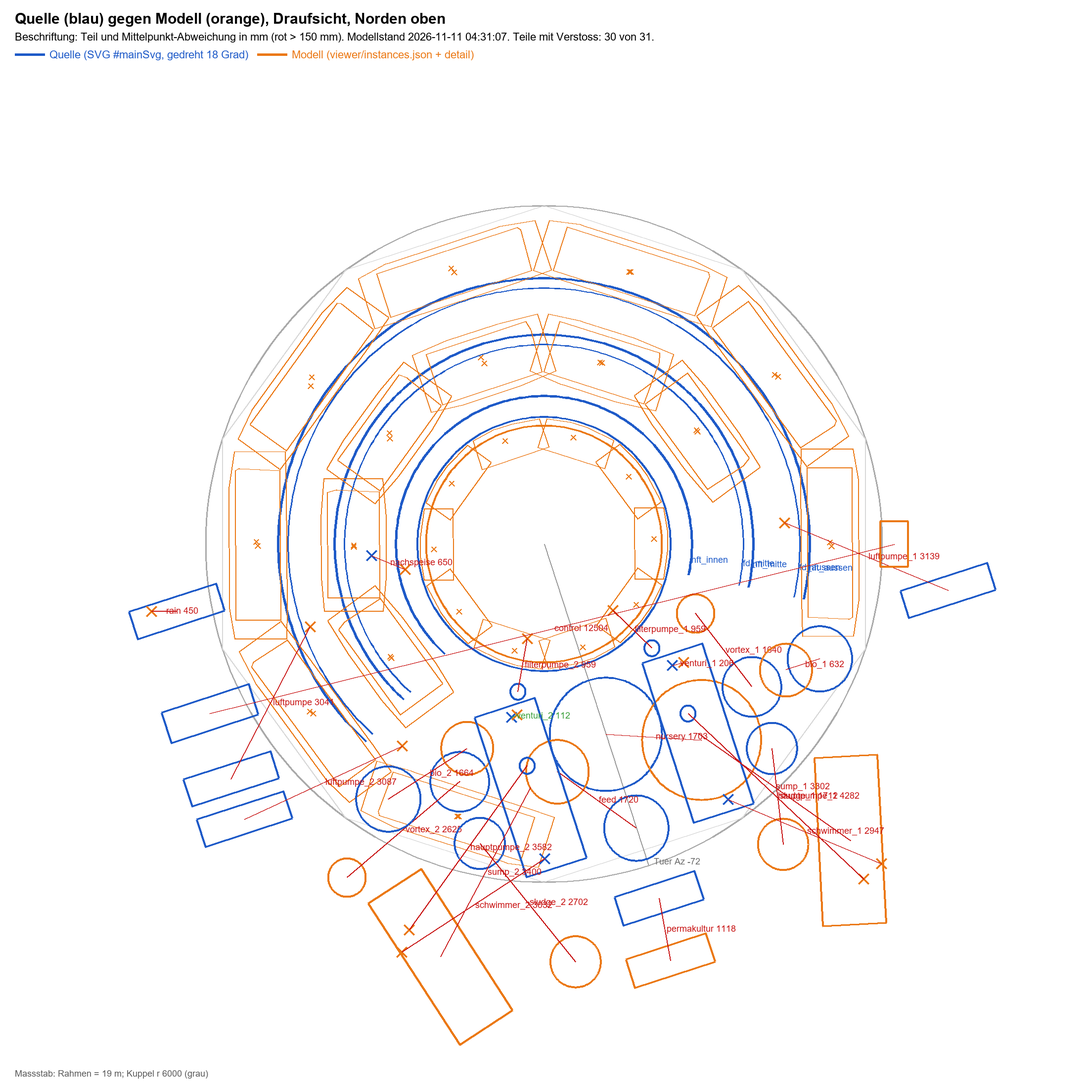
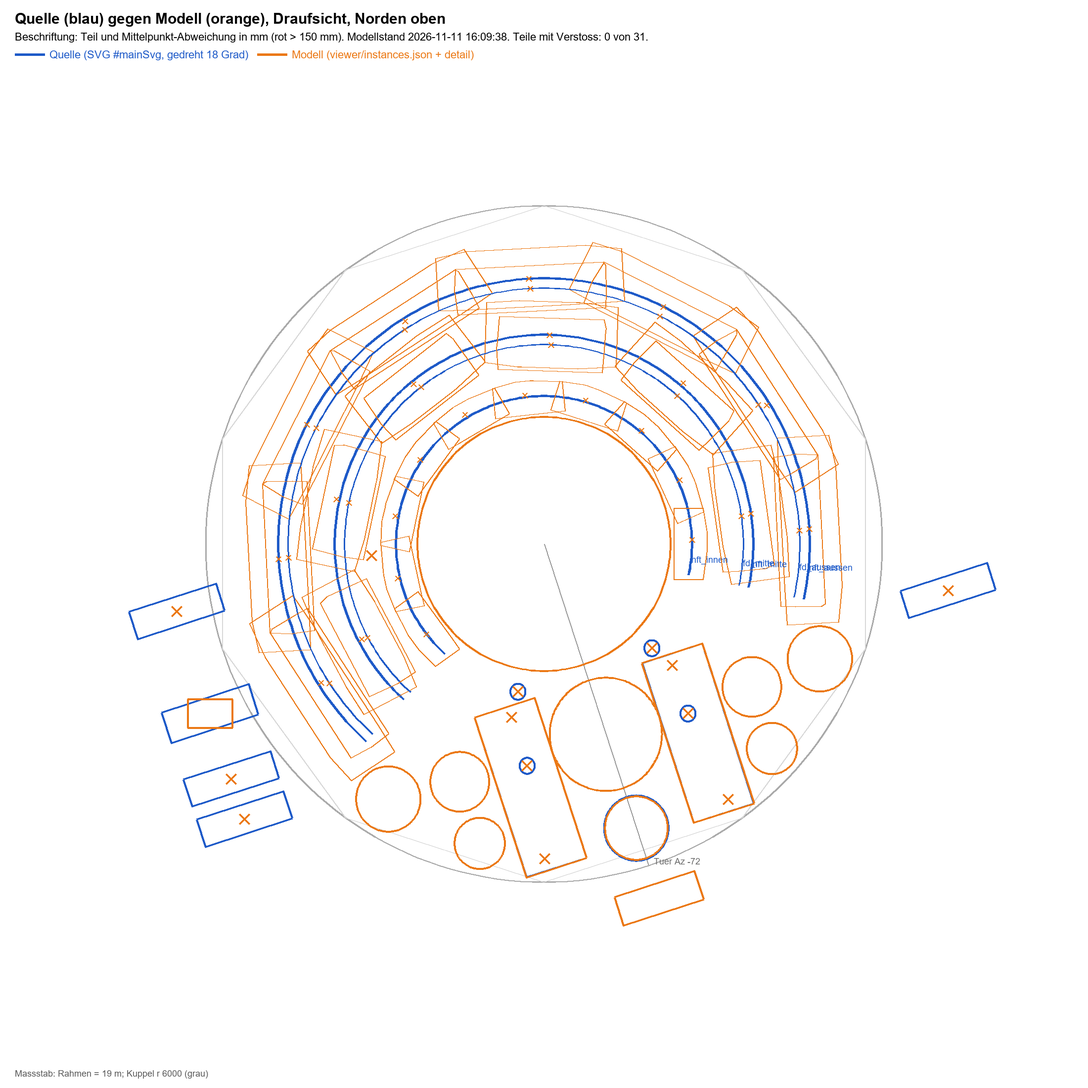
N-UNIFY-AUTOBAHN L2: Lage-Gate Exit 0 (0 von 31 Teilen, Ringe 5/5), Viewer- und Detail-Export, Draufsicht-Bilder, Gangkarte neu, Bedenken B23-B28 gemessen, L2 Stand im Paket

diff --git a/docs/walkway-map.md b/docs/walkway-map.md
@@ -4,128 +4,159 @@ Erzeugt von `scripts/check_walkways_voll.py` aus `scripts/dome-script.json` (Ras
 
 ## Scheibe knie (0.3 m ueber Boden)
 
-### rot: 45 Engstellen
+### rot: 42 Engstellen
 
-- Weite ca. 100 mm bei -180 Grad / 5675 mm (Laenge ca. 6450 mm): Beet_aussen_800:2 x Wand
-- Weite ca. 100 mm bei -170 Grad / 2256 mm (Laenge ca. 500 mm): Tisch_innen:2 Fuss x Zentralpool
-- Weite ca. 100 mm bei -161 Grad / 2878 mm (Laenge ca. 350 mm): Beet_innen_933:2 x Beet_innen_933:3
-- Weite ca. 100 mm bei -161 Grad / 4159 mm (Laenge ca. 5600 mm): Beet_aussen_800:2 x Beet_aussen_800:3 | Beet_aussen_800:2 x Notluftpumpe:1
-- Weite ca. 100 mm bei -144 Grad / 5696 mm (Laenge ca. 5350 mm): Beet_aussen_800:3 x Wand
-- Weite ca. 100 mm bei -141 Grad / 2276 mm (Laenge ca. 1650 mm): Tisch_innen:3 Fuss x Tisch_innen:3 Fuss | Tisch_innen:3 Fuss x Zentralpool
-- Weite ca. 100 mm bei -119 Grad / 4487 mm (Laenge ca. 5750 mm): Beet_aussen_800:3 x Beet_aussen_800:4 | Beet_aussen_800:3 x Geblaese_Luft:2
-- Weite ca. 100 mm bei -108 Grad / 5660 mm (Laenge ca. 4250 mm): Beet_aussen_800:4 x Wand
-- Weite ca. 100 mm bei -106 Grad / 2263 mm (Laenge ca. 1800 mm): Tisch_innen:4 Fuss x Tisch_innen:4 Fuss | Tisch_innen:4 Fuss x Zentralpool
-- Weite ca. 100 mm bei -53 Grad / 3285 mm (Laenge ca. 2650 mm): Puffer_Klein:1 x Ringstuetze_d75_B:2 | Puffer_Klein:1 x Zweitbecken
-- Weite ca. 100 mm bei -47 Grad / 2229 mm (Laenge ca. 7400 mm): Podest_Vortex:1 x Puffer_Klein:1 | Podest_Vortex:1 x Tisch_innen:6 Fuss
-- Weite ca. 100 mm bei -1 Grad / 5625 mm (Laenge ca. 6450 mm): Beet_aussen_800:5 x Wand
-- Weite ca. 100 mm bei 1 Grad / 2175 mm (Laenge ca. 1550 mm): Tisch_innen:7 Fuss x Tisch_innen:7 Fuss | Tisch_innen:7 Fuss x Zentralpool
-- Weite ca. 100 mm bei 5 Grad / 4391 mm (Laenge ca. 1800 mm): Beet_aussen_800:5 x Geblaese_Luft:1
-- Weite ca. 100 mm bei 35 Grad / 5597 mm (Laenge ca. 5300 mm): Beet_aussen_800:6 x Wand
-- Weite ca. 100 mm bei 38 Grad / 2175 mm (Laenge ca. 1450 mm): Tisch_innen:8 Fuss x Tisch_innen:8 Fuss | Tisch_innen:8 Fuss x Zentralpool
-- Weite ca. 100 mm bei 54 Grad / 2796 mm (Laenge ca. 450 mm): Beet_innen_933:4 x Beet_innen_933:5
-- Weite ca. 100 mm bei 54 Grad / 3435 mm (Laenge ca. 1550 mm): Beet_innen_933:4 x Beet_innen_933:5
-- Weite ca. 100 mm bei 73 Grad / 5582 mm (Laenge ca. 4300 mm): Beet_aussen_800:7 x Wand
-- Weite ca. 100 mm bei 75 Grad / 2153 mm (Laenge ca. 1800 mm): Tisch_innen:9 Fuss x Tisch_innen:9 Fuss | Tisch_innen:9 Fuss x Zentralpool
-- Weite ca. 100 mm bei 90 Grad / 3425 mm (Laenge ca. 1350 mm): Beet_innen_933:5 x Beet_innen_933:6
-- Weite ca. 100 mm bei 91 Grad / 2775 mm (Laenge ca. 550 mm): Beet_innen_933:5 x Beet_innen_933:6
-- Weite ca. 100 mm bei 109 Grad / 2198 mm (Laenge ca. 1600 mm): Tisch_innen:10 Fuss x Tisch_innen:10 Fuss | Tisch_innen:10 Fuss x Zentralpool
-- Weite ca. 100 mm bei 110 Grad / 5598 mm (Laenge ca. 5150 mm): Beet_aussen_800:8 x Wand
-- Weite ca. 100 mm bei 127 Grad / 3495 mm (Laenge ca. 1150 mm): Beet_innen_933:1 x Beet_innen_933:6
-- Weite ca. 100 mm bei 128 Grad / 2815 mm (Laenge ca. 350 mm): Beet_innen_933:1 x Beet_innen_933:6
-- Weite ca. 100 mm bei 145 Grad / 5638 mm (Laenge ca. 6950 mm): Beet_aussen_800:1 x Wand
-- Weite ca. 100 mm bei 146 Grad / 2198 mm (Laenge ca. 1500 mm): Tisch_innen:1 Fuss x Tisch_innen:1 Fuss | Tisch_innen:1 Fuss x Zentralpool
-- Weite ca. 100 mm bei 163 Grad / 2847 mm (Laenge ca. 300 mm): Beet_innen_933:1 x Beet_innen_933:2
-- Weite ca. 100 mm bei 164 Grad / 3465 mm (Laenge ca. 950 mm): Beet_innen_933:1 x Beet_innen_933:2
+- Weite ca. 100 mm bei -176 Grad / 3935 mm (Laenge ca. 600 mm): Beet_aussen_800:7 x Beet_innen_933:5
+- Weite ca. 100 mm bei -168 Grad / 2991 mm (Laenge ca. 2700 mm): Beet_innen_933:5 x Beet_innen_933:6 | Beet_innen_933:5 x Tisch_innen:9 Fuss
+- Weite ca. 100 mm bei -167 Grad / 3973 mm (Laenge ca. 900 mm): Beet_aussen_800:7 x Beet_innen_933:6
+- Weite ca. 100 mm bei -161 Grad / 5360 mm (Laenge ca. 400 mm): Beet_aussen_800:7 x Beet_aussen_800:8
+- Weite ca. 100 mm bei -143 Grad / 2895 mm (Laenge ca. 2050 mm): Beet_innen_933:6 x Tisch_innen:10 Fuss | Tisch_innen:10 Fuss x Tisch_innen:10 Fuss
+- Weite ca. 100 mm bei -136 Grad / 3996 mm (Laenge ca. 450 mm): Beet_aussen_800:8 x Beet_innen_933:6
+- Weite ca. 100 mm bei -77 Grad / 5816 mm (Laenge ca. 1100 mm): Drittbecken x Wand
+- Weite ca. 100 mm bei -72 Grad / 4696 mm (Laenge ca. 1600 mm): Drittbecken x Zweitbecken
+- Weite ca. 100 mm bei -67 Grad / 5771 mm (Laenge ca. 1850 mm): Drittbecken x Wand
+- Weite ca. 100 mm bei -60 Grad / 2385 mm (Laenge ca. 4400 mm): Puffer_Klein:1 x Zentralpool | Puffer_Klein:1 x Zweitbecken
+- Weite ca. 100 mm bei -54 Grad / 3255 mm (Laenge ca. 450 mm): Puffer_Klein:1 x Zweitbecken
+- Weite ca. 100 mm bei -31 Grad / 5059 mm (Laenge ca. 750 mm): Podest_Vortex:1 x Tank_gross:1
+- Weite ca. 100 mm bei -30 Grad / 5591 mm (Laenge ca. 550 mm): Tank_gross:1 x Wand
+- Weite ca. 100 mm bei -25 Grad / 4486 mm (Laenge ca. 500 mm): Podest_Vortex:1 x Tank_gross:1
+- Weite ca. 100 mm bei -17 Grad / 5788 mm (Laenge ca. 1150 mm): Tank_gross:1 x Wand
+- Weite ca. 100 mm bei -16 Grad / 4749 mm (Laenge ca. 1500 mm): Beet_aussen_800:1 x Tank_gross:1
+- Weite ca. 100 mm bei -8 Grad / 3967 mm (Laenge ca. 650 mm): Beet_aussen_800:1 x Beet_innen_933:1
+- Weite ca. 100 mm bei -1 Grad / 2825 mm (Laenge ca. 1700 mm): Beet_innen_933:1 x Tisch_innen:1 Fuss | Tisch_innen:1 Fuss x Tisch_innen:1 Fuss
+- Weite ca. 100 mm bei 18 Grad / 5281 mm (Laenge ca. 400 mm): Beet_aussen_800:1 x Beet_aussen_800:2
+- Weite ca. 100 mm bei 23 Grad / 3887 mm (Laenge ca. 550 mm): Beet_aussen_800:2 x Beet_innen_933:1
+- Weite ca. 100 mm bei 25 Grad / 2942 mm (Laenge ca. 3100 mm): Beet_innen_933:1 x Beet_innen_933:2 | Beet_innen_933:1 x Tisch_innen:2 Fuss
+- Weite ca. 100 mm bei 32 Grad / 3850 mm (Laenge ca. 800 mm): Beet_aussen_800:2 x Beet_innen_933:2
+- Weite ca. 100 mm bei 48 Grad / 5276 mm (Laenge ca. 500 mm): Beet_aussen_800:2 x Beet_aussen_800:3
+- Weite ca. 100 mm bei 49 Grad / 2763 mm (Laenge ca. 1800 mm): Beet_innen_933:2 x Tisch_innen:3 Fuss | Tisch_innen:3 Fuss x Tisch_innen:3 Fuss
+- Weite ca. 100 mm bei 64 Grad / 3858 mm (Laenge ca. 550 mm): Beet_aussen_800:3 x Beet_innen_933:2
+- Weite ca. 100 mm bei 72 Grad / 2925 mm (Laenge ca. 3200 mm): Beet_innen_933:2 x Beet_innen_933:3 | Beet_innen_933:2 x Tisch_innen:4 Fuss
+- Weite ca. 100 mm bei 73 Grad / 3891 mm (Laenge ca. 750 mm): Beet_aussen_800:3 x Beet_innen_933:3
+- Weite ca. 100 mm bei 78 Grad / 5237 mm (Laenge ca. 500 mm): Beet_aussen_800:3 x Beet_aussen_800:4
+- Weite ca. 100 mm bei 98 Grad / 2800 mm (Laenge ca. 1800 mm): Beet_innen_933:3 x Tisch_innen:5 Fuss | Tisch_innen:5 Fuss x Tisch_innen:5 Fuss
+- Weite ca. 100 mm bei 104 Grad / 3899 mm (Laenge ca. 700 mm): Beet_aussen_800:4 x Beet_innen_933:3
 
-### gelb: 74 Engstellen
+### gelb: 51 Engstellen
 
-- Weite ca. 442 mm bei 90 Grad / 5125 mm (Laenge ca. 350 mm): Beet_aussen_800:7 x Beet_aussen_800:8
-- Weite ca. 484 mm bei -161 Grad / 5202 mm (Laenge ca. 300 mm): Beet_aussen_800:2 x Beet_aussen_800:3
-- Weite ca. 484 mm bei -160 Grad / 5679 mm (Laenge ca. 150 mm): Beet_aussen_800:3 x Wand
-- Weite ca. 484 mm bei -143 Grad / 4315 mm (Laenge ca. 3300 mm): Beet_aussen_800:3 x Beet_innen_933:3 | Beet_aussen_800:3 x Geblaese_Luft:2
-- Weite ca. 484 mm bei -124 Grad / 5693 mm (Laenge ca. 150 mm): Beet_aussen_800:4 x Wand
-- Weite ca. 484 mm bei -123 Grad / 3363 mm (Laenge ca. 900 mm): Beet_innen_933:3 x Tank_gross_t3:1
-- Weite ca. 484 mm bei -99 Grad / 4427 mm (Laenge ca. 400 mm): Beet_aussen_800:4 x Drittbecken | Beet_aussen_800:4 x Tank_gross_t3:1
-- Weite ca. 484 mm bei -95 Grad / 3440 mm (Laenge ca. 200 mm): Drittbecken x Ringstuetze_d75_B:1
-- Weite ca. 484 mm bei -92 Grad / 5728 mm (Laenge ca. 200 mm): Beet_aussen_800:4 x Wand
-- Weite ca. 484 mm bei -58 Grad / 5626 mm (Laenge ca. 800 mm): Wand x Zweitbecken
-- Weite ca. 484 mm bei -37 Grad / 2465 mm (Laenge ca. 550 mm): Podest_Vortex:1 x Puffer_Klein:1 | Podest_Vortex:1 x Tisch_innen:6 Fuss
-- Weite ca. 484 mm bei -37 Grad / 4965 mm (Laenge ca. 200 mm): Tank_gross:1 x Zweitbecken
-- Weite ca. 484 mm bei -35 Grad / 4057 mm (Laenge ca. 150 mm): Tank_gross:1 x Zweitbecken
-- Weite ca. 484 mm bei -25 Grad / 5582 mm (Laenge ca. 1000 mm): Tank_gross:1 x Wand
-- Weite ca. 484 mm bei -19 Grad / 4159 mm (Laenge ca. 250 mm): Ringstuetze_d75_B:3 x Tank_gross:1
-- Weite ca. 484 mm bei -19 Grad / 4744 mm (Laenge ca. 650 mm): Beet_aussen_800:5 x Tank_gross:1
-- Weite ca. 484 mm bei -16 Grad / 3465 mm (Laenge ca. 500 mm): Podest_Vortex:1 x Ringstuetze_d75_B:3
-- Weite ca. 484 mm bei 9 Grad / 2355 mm (Laenge ca. 150 mm): Tisch_innen:7 Fuss x Zentralpool
-- Weite ca. 484 mm bei 20 Grad / 5615 mm (Laenge ca. 150 mm): Beet_aussen_800:6 x Wand
-- Weite ca. 484 mm bei 54 Grad / 5086 mm (Laenge ca. 450 mm): Beet_aussen_800:6 x Beet_aussen_800:7
-- Weite ca. 484 mm bei 66 Grad / 2318 mm (Laenge ca. 200 mm): Tisch_innen:9 Fuss x Zentralpool
-- Weite ca. 484 mm bei 90 Grad / 3875 mm (Laenge ca. 350 mm): Beet_innen_933:5 x Beet_innen_933:6
-- Weite ca. 484 mm bei 102 Grad / 2324 mm (Laenge ca. 150 mm): Tisch_innen:10 Fuss x Zentralpool
-- Weite ca. 484 mm bei 127 Grad / 3855 mm (Laenge ca. 250 mm): Beet_innen_933:1 x Beet_innen_933:6
-- Weite ca. 484 mm bei 128 Grad / 5626 mm (Laenge ca. 200 mm): Beet_aussen_800:1 x Wand
-- Weite ca. 484 mm bei 146 Grad / 2448 mm (Laenge ca. 550 mm): Beet_innen_933:1 x Tisch_innen:1 Fuss | Tisch_innen:1 Fuss x Tisch_innen:1 Fuss
-- Weite ca. 500 mm bei -165 Grad / 4421 mm (Laenge ca. 400 mm): Beet_aussen_800:2 x Notluftpumpe:1 | Beet_innen_933:2 x Notluftpumpe:1
-- Weite ca. 500 mm bei -163 Grad / 5711 mm (Laenge ca. 150 mm): Beet_aussen_800:2 x Wand
-- Weite ca. 500 mm bei -161 Grad / 2720 mm (Laenge ca. 150 mm): Beet_innen_933:2 x Beet_innen_933:3
-- Weite ca. 500 mm bei -141 Grad / 2526 mm (Laenge ca. 600 mm): Beet_innen_933:3 x Tisch_innen:3 Fuss | Tisch_innen:3 Fuss x Tisch_innen:3 Fuss
+- Weite ca. 442 mm bei -134 Grad / 2899 mm (Laenge ca. 150 mm): Beet_innen_933:6 x Tisch_innen:10 Fuss
+- Weite ca. 442 mm bei -81 Grad / 5544 mm (Laenge ca. 200 mm): Drittbecken x Wand
+- Weite ca. 484 mm bei -171 Grad / 3514 mm (Laenge ca. 150 mm): Beet_innen_933:5 x Beet_innen_933:6
+- Weite ca. 484 mm bei -161 Grad / 5487 mm (Laenge ca. 200 mm): Beet_aussen_800:7 x Beet_aussen_800:8
+- Weite ca. 484 mm bei -150 Grad / 2744 mm (Laenge ca. 200 mm): Beet_innen_933:6 x Tisch_innen:10 Fuss
+- Weite ca. 484 mm bei -143 Grad / 2605 mm (Laenge ca. 700 mm): Tisch_innen:10 Fuss x Tisch_innen:10 Fuss | Tisch_innen:10 Fuss x Zentralpool
+- Weite ca. 484 mm bei -109 Grad / 5471 mm (Laenge ca. 550 mm): Podest_Vortex:2 x Wand
+- Weite ca. 484 mm bei -65 Grad / 4755 mm (Laenge ca. 200 mm): Drittbecken x Zweitbecken
+- Weite ca. 484 mm bei -36 Grad / 2505 mm (Laenge ca. 150 mm): Puffer_Klein:1 x Zentralpool
+- Weite ca. 484 mm bei -34 Grad / 5430 mm (Laenge ca. 1200 mm): Podest_Vortex:1 x Tank_gross:1 | Podest_Vortex:1 x Wand
+- Weite ca. 484 mm bei -19 Grad / 4364 mm (Laenge ca. 200 mm): Beet_aussen_800:1 x Tank_gross:1
+- Weite ca. 484 mm bei -14 Grad / 5439 mm (Laenge ca. 300 mm): Beet_aussen_800:1 x Tank_gross:1 | Tank_gross:1 x Wand
+- Weite ca. 484 mm bei 19 Grad / 5408 mm (Laenge ca. 150 mm): Beet_aussen_800:1 x Beet_aussen_800:2
+- Weite ca. 484 mm bei 28 Grad / 3590 mm (Laenge ca. 850 mm): Beet_aussen_800:2 x Beet_innen_933:1 | Beet_aussen_800:2 x Beet_innen_933:2
+- Weite ca. 484 mm bei 45 Grad / 5409 mm (Laenge ca. 1450 mm): Beet_aussen_800:2 x Beet_aussen_800:3 | Beet_aussen_800:2 x Wand
+- Weite ca. 484 mm bei 65 Grad / 2740 mm (Laenge ca. 250 mm): Beet_innen_933:2 x Tisch_innen:4 Fuss
+- Weite ca. 484 mm bei 76 Grad / 5378 mm (Laenge ca. 1200 mm): Beet_aussen_800:3 x Beet_aussen_800:4 | Beet_aussen_800:3 x Wand
+- Weite ca. 484 mm bei 108 Grad / 2862 mm (Laenge ca. 250 mm): Beet_innen_933:3 x Beet_innen_933:4 | Beet_innen_933:3 x Tisch_innen:5 Fuss
+- Weite ca. 484 mm bei 108 Grad / 5392 mm (Laenge ca. 1200 mm): Beet_aussen_800:4 x Beet_aussen_800:5 | Beet_aussen_800:4 x Wand
+- Weite ca. 484 mm bei 141 Grad / 5439 mm (Laenge ca. 2350 mm): Beet_aussen_800:5 x Beet_aussen_800:6 | Beet_aussen_800:5 x Wand
+- Weite ca. 484 mm bei 149 Grad / 3713 mm (Laenge ca. 850 mm): Beet_aussen_800:6 x Beet_innen_933:4 | Beet_aussen_800:6 x Beet_innen_933:5
+- Weite ca. 484 mm bei 163 Grad / 2752 mm (Laenge ca. 150 mm): Beet_innen_933:5 x Tisch_innen:8 Fuss
+- Weite ca. 500 mm bei -174 Grad / 2789 mm (Laenge ca. 150 mm): Beet_innen_933:5 x Tisch_innen:9 Fuss
+- Weite ca. 500 mm bei -173 Grad / 3805 mm (Laenge ca. 200 mm): Beet_aussen_800:7 x Beet_innen_933:5
+- Weite ca. 500 mm bei -170 Grad / 3835 mm (Laenge ca. 200 mm): Beet_aussen_800:7 x Beet_innen_933:6
+- Weite ca. 500 mm bei -75 Grad / 6144 mm (Laenge ca. 150 mm): Drittbecken x Wand
+- Weite ca. 500 mm bei -64 Grad / 5535 mm (Laenge ca. 200 mm): Drittbecken x Wand
+- Weite ca. 500 mm bei -23 Grad / 4333 mm (Laenge ca. 150 mm): Podest_Vortex:1 x Tank_gross:1
+- Weite ca. 500 mm bei -11 Grad / 3844 mm (Laenge ca. 200 mm): Beet_aussen_800:1 x Beet_innen_933:1
+- Weite ca. 500 mm bei 24 Grad / 2495 mm (Laenge ca. 800 mm): Tisch_innen:2 Fuss x Tisch_innen:2 Fuss | Tisch_innen:2 Fuss x Zentralpool
 
 ### Erreichbarkeit der Bauteile (Zelle mit >= 500 mm Gang <= 450 mm vom Grundriss)
 
-- erreichbar: Tank_gross:1
-- erreichbar: Tank_gross_t3:1
-- NICHT erreichbar: Geblaese_Luft:2
+- NICHT erreichbar: Podest_Vortex:1
+- NICHT erreichbar: Podest_Vortex:2
+- NICHT erreichbar: Tank_gross:1
+- NICHT erreichbar: Beet_aussen_800:1
+- NICHT erreichbar: Beet_aussen_800:2
 - NICHT erreichbar: Beet_aussen_800:3
+- NICHT erreichbar: Beet_aussen_800:4
+- NICHT erreichbar: Beet_aussen_800:5
+- NICHT erreichbar: Beet_aussen_800:6
+- NICHT erreichbar: Beet_aussen_800:7
+- NICHT erreichbar: Beet_aussen_800:8
+- NICHT erreichbar: Beet_innen_933:1
+- NICHT erreichbar: Beet_innen_933:2
+- NICHT erreichbar: Beet_innen_933:3
+- NICHT erreichbar: Beet_innen_933:4
+- NICHT erreichbar: Beet_innen_933:5
+- NICHT erreichbar: Beet_innen_933:6
+- NICHT erreichbar: Tisch_innen:1 Fuss
+- NICHT erreichbar: Tisch_innen:1 Fuss
+- NICHT erreichbar: Tisch_innen:2 Fuss
+- NICHT erreichbar: Tisch_innen:2 Fuss
+- NICHT erreichbar: Tisch_innen:3 Fuss
+- NICHT erreichbar: Tisch_innen:3 Fuss
+- NICHT erreichbar: Tisch_innen:4 Fuss
+- NICHT erreichbar: Tisch_innen:4 Fuss
+- NICHT erreichbar: Tisch_innen:5 Fuss
+- NICHT erreichbar: Tisch_innen:5 Fuss
 - NICHT erreichbar: Tisch_innen:6 Fuss
 - NICHT erreichbar: Tisch_innen:6 Fuss
-- erreichbar: Puffer_Klein:1
-- NICHT erreichbar: Ringstuetze_d75_B:2
-- erreichbar: Zentralpool
-- erreichbar: Zweitbecken
+- NICHT erreichbar: Tisch_innen:7 Fuss
+- NICHT erreichbar: Tisch_innen:7 Fuss
+- NICHT erreichbar: Tisch_innen:8 Fuss
+- NICHT erreichbar: Tisch_innen:8 Fuss
+- NICHT erreichbar: Tisch_innen:9 Fuss
+- NICHT erreichbar: Tisch_innen:9 Fuss
+- NICHT erreichbar: Tisch_innen:10 Fuss
+- NICHT erreichbar: Tisch_innen:10 Fuss
+- NICHT erreichbar: Puffer_Klein:1
+- NICHT erreichbar: Zentralpool
+- NICHT erreichbar: Zweitbecken
 - erreichbar: Drittbecken
 
 ## Scheibe kopf (1.7 m ueber Boden)
 
-### rot: 8 Engstellen
+### rot: 9 Engstellen
 
-- Weite ca. 142 mm bei -54 Grad / 3325 mm (Laenge ca. 1500 mm): Ringstuetze_d75_B:2 x Zweitbecken
-- Weite ca. 242 mm bei -50 Grad / 5643 mm (Laenge ca. 3350 mm): Wand x Zweitbecken
-- Weite ca. 242 mm bei -36 Grad / 4505 mm (Laenge ca. 1250 mm): Tank_gross:1 x Zweitbecken
-- Weite ca. 284 mm bei -31 Grad / 5548 mm (Laenge ca. 1950 mm): Tank_gross:1 x Wand
-- Weite ca. 300 mm bei -90 Grad / 3375 mm (Laenge ca. 900 mm): Drittbecken x Ringstuetze_d75_B:1
-- Weite ca. 300 mm bei -20 Grad / 3543 mm (Laenge ca. 1050 mm): Ringstuetze_d75_B:3 x Tank_klein:1
-- Weite ca. 342 mm bei -25 Grad / 2338 mm (Laenge ca. 1000 mm): Tank_klein:1 x Zentralpool
-- Weite ca. 384 mm bei -21 Grad / 4100 mm (Laenge ca. 550 mm): Ringstuetze_d75_B:3 x Tank_gross:1
+- Weite ca. 100 mm bei -77 Grad / 5816 mm (Laenge ca. 1100 mm): Drittbecken x Wand
+- Weite ca. 100 mm bei -72 Grad / 4696 mm (Laenge ca. 1600 mm): Drittbecken x Zweitbecken
+- Weite ca. 100 mm bei -67 Grad / 5771 mm (Laenge ca. 1850 mm): Drittbecken x Wand
+- Weite ca. 100 mm bei -33 Grad / 5526 mm (Laenge ca. 1350 mm): Tank_gross:1 x Wand | Tank_klein:1 x Wand
+- Weite ca. 100 mm bei -31 Grad / 5171 mm (Laenge ca. 750 mm): Tank_gross:1 x Tank_klein:1
+- Weite ca. 100 mm bei -25 Grad / 4486 mm (Laenge ca. 450 mm): Tank_gross:1 x Tank_klein:1
+- Weite ca. 100 mm bei -17 Grad / 5788 mm (Laenge ca. 1150 mm): Tank_gross:1 x Wand
+- Weite ca. 242 mm bei -73 Grad / 2483 mm (Laenge ca. 1750 mm): Zentralpool x Zweitbecken
+- Weite ca. 400 mm bei -110 Grad / 5504 mm (Laenge ca. 550 mm): Tank_klein:2 x Wand
 
 ### gelb: 14 Engstellen
 
-- Weite ca. 484 mm bei -95 Grad / 3440 mm (Laenge ca. 200 mm): Drittbecken x Ringstuetze_d75_B:1
-- Weite ca. 484 mm bei -58 Grad / 5626 mm (Laenge ca. 800 mm): Wand x Zweitbecken
-- Weite ca. 484 mm bei -48 Grad / 3220 mm (Laenge ca. 150 mm): Ringstuetze_d75_B:2 x Zweitbecken
-- Weite ca. 484 mm bei -37 Grad / 4965 mm (Laenge ca. 200 mm): Tank_gross:1 x Zweitbecken
-- Weite ca. 484 mm bei -35 Grad / 4057 mm (Laenge ca. 150 mm): Tank_gross:1 x Zweitbecken
-- Weite ca. 484 mm bei -31 Grad / 2367 mm (Laenge ca. 300 mm): Tank_klein:1 x Zentralpool
-- Weite ca. 484 mm bei -25 Grad / 5582 mm (Laenge ca. 1000 mm): Tank_gross:1 x Wand
-- Weite ca. 484 mm bei -19 Grad / 4159 mm (Laenge ca. 250 mm): Ringstuetze_d75_B:3 x Tank_gross:1
-- Weite ca. 484 mm bei -18 Grad / 2388 mm (Laenge ca. 300 mm): Tank_klein:1 x Zentralpool
-- Weite ca. 500 mm bei -84 Grad / 3291 mm (Laenge ca. 200 mm): Drittbecken x Ringstuetze_d75_B:1
-- Weite ca. 500 mm bei -42 Grad / 5454 mm (Laenge ca. 400 mm): Wand x Zweitbecken
-- Weite ca. 500 mm bei -24 Grad / 3704 mm (Laenge ca. 200 mm): Ringstuetze_d75_B:3 x Tank_klein:1
-- Weite ca. 500 mm bei -23 Grad / 3998 mm (Laenge ca. 200 mm): Ringstuetze_d75_B:3 x Tank_gross:1
-- Weite ca. 500 mm bei -16 Grad / 3451 mm (Laenge ca. 300 mm): Ringstuetze_d75_B:3 x Tank_klein:1
+- Weite ca. 442 mm bei -81 Grad / 5544 mm (Laenge ca. 200 mm): Drittbecken x Wand
+- Weite ca. 484 mm bei -112 Grad / 5529 mm (Laenge ca. 250 mm): Tank_klein:2 x Wand
+- Weite ca. 484 mm bei -108 Grad / 5487 mm (Laenge ca. 200 mm): Tank_klein:2 x Wand
+- Weite ca. 484 mm bei -65 Grad / 4755 mm (Laenge ca. 200 mm): Drittbecken x Zweitbecken
+- Weite ca. 484 mm bei -37 Grad / 5425 mm (Laenge ca. 300 mm): Tank_klein:1 x Wand
+- Weite ca. 484 mm bei -33 Grad / 5430 mm (Laenge ca. 500 mm): Tank_gross:1 x Tank_klein:1 | Tank_gross:1 x Wand
+- Weite ca. 484 mm bei -14 Grad / 5548 mm (Laenge ca. 150 mm): Tank_gross:1 x Wand
+- Weite ca. 500 mm bei -75 Grad / 6144 mm (Laenge ca. 150 mm): Drittbecken x Wand
+- Weite ca. 500 mm bei -64 Grad / 5535 mm (Laenge ca. 200 mm): Drittbecken x Wand
+- Weite ca. 500 mm bei -59 Grad / 2547 mm (Laenge ca. 350 mm): Zentralpool x Zweitbecken
+- Weite ca. 500 mm bei -23 Grad / 4333 mm (Laenge ca. 150 mm): Tank_gross:1 x Tank_klein:1
+- Weite ca. 526 mm bei -87 Grad / 2578 mm (Laenge ca. 250 mm): Zentralpool x Zweitbecken
+- Weite ca. 526 mm bei -79 Grad / 4766 mm (Laenge ca. 200 mm): Drittbecken x Zweitbecken
+- Weite ca. 542 mm bei -70 Grad / 6136 mm (Laenge ca. 150 mm): Drittbecken x Wand
 
 ### Erreichbarkeit der Bauteile (Zelle mit >= 500 mm Gang <= 450 mm vom Grundriss)
 
-- erreichbar: Tank_klein:1
-- erreichbar: Tank_gross:1
-- erreichbar: Tank_gross_t3:1
-- erreichbar: Zentralpool
-- erreichbar: Zweitbecken
+- NICHT erreichbar: Tank_klein:1
+- NICHT erreichbar: Tank_klein:2
+- NICHT erreichbar: Tank_gross:1
+- NICHT erreichbar: Zentralpool
+- NICHT erreichbar: Zweitbecken
 - erreichbar: Drittbecken
 
 ## Zusammenfassung
 
-- knie rot: 45 Engstellen
-- knie gelb: 74 Engstellen
-- kopf rot: 8 Engstellen
+- knie rot: 42 Engstellen
+- knie gelb: 51 Engstellen
+- kopf rot: 9 Engstellen
 - kopf gelb: 14 Engstellen

diff --git a/docs/packages/n-unify-autobahn.md b/docs/packages/n-unify-autobahn.md
@@ -45,7 +45,7 @@ liest Ergebnis und Verbrauch und meldet Ben Zwischenstände.
 | U6 | `unify-u6-montage.md` | Gesamtmodell: Wasserautobahn auf 1550 mm, Einspeisung, Rückläufe, Beckenkette, Nachspeisung, Notüberlauf, Luft-/Schlammleitungen | 20 USD | **teilweise** (11.11., normale Sitzung): Ziel erfüllt (`check_oasis_soll --teil alle` BESTANDEN: 16/16 Wasserspiegel 0 mm, Stufen exakt, 77/77 Wege im Netz, 62/62 Leitungswege verlegt, 0 Hochpunkte; Build Exit 0; A+ unverändert); NICHT erfüllt: `check_leitungen --variante ring_b2` 72 benannte Verstöße (Kollision 20, Band 30, Gang 22, an U9), `check_autobahn_montage r2` 26/28 (2 FAIL Ausleger-Clip, vor U6 identisch); 14 Fallleitungen schräg, Rückläufe als Schlauchbündel an der Wand (Bedenken B14 bis B17); Stand unten |
 | U7 | `unify-u7-montage.md` | Variantenumschaltung abbauen (`variante.py`, `gen_dome.py`, `build.sh`, Viewer, `viewer_dist.py`): nur noch eine Variante | 12 USD | **erledigt** (11.11., normale Sitzung): alle 4 Prüfbefehle erfüllt (grep 0 Treffer; `build.sh 5 7` Exit 0 schreibt `designs/dome.sc`; `check_oasis_soll --teil alle` BESTANDEN mit den Messwerten von U6; `statik.json` ohne `varianten`); A+ und Stand U6 im Archiv (D141); Stand unten |
 | U8 | `unify-u8-daten.md` | Teileliste, Bestellliste (Europa, Link, lebensmittelecht), Bauteilbeschreibungen, Katalog | 12 USD | **teilweise** (11.11., normale Sitzung): Teileliste, Katalog, Beschreibungen und Biomasse erfuellt (`check_bom` 14/14, 0 ungeklaerte Koerper, Zaehlung Pumpen 4 / Venturi 2 / Schwimmer 2 / Sumpftanks 2, `oasis_soll --pruefen` 45/45, `check_links` 0 FEHLER); NICHT erfuellt: Bestellbarkeit in Europa mit Lebensmittel-Nachweis (D76, D85) nur fuer 21 von 64 neuen Artikeln als Angebot (davon keiner mit gelesenem Nachweis), 104 Zeilen ohne Preis; Stand unten |
-| U9 | `unify-u9-montage.md` | `check_latte` in Kopie, Kollisionen beheben (Verschiebung höchstens 750 mm), Gangkarte | 18 USD | ANGEHALTEN (11.11., 14:45, Ben; L1 Daten und Pruefskript gebaut, L2 offen): Lage weicht von der Quelle ab, erst Abschnitt „Lage-Korrektur“; Commits 70f2b89, fb2f3ba bleiben |
+| U9 | `unify-u9-montage.md` | `check_latte` in Kopie, Kollisionen beheben (Verschiebung höchstens 750 mm), Gangkarte | 18 USD | ANGEHALTEN (11.11., 14:45, Ben; L1 und L2 erledigt: Lage-Gate Exit 0, Leitungen aus dem Bau; wartet auf Bens Sichtpruefung): Lage weicht von der Quelle ab, erst Abschnitt „Lage-Korrektur“; Commits 70f2b89, fb2f3ba bleiben |
 | U10 | `unify-u10-viewer.md` | Viewer-Export, Kreislauf-Schalter mit Soll-Wegen, Browser-Screenshot, `viewer_dist.py` | 10 USD | offen |
 | P-Prüf | eigener Lauf, nicht der Bauer (Vorlage `docs/jobs/vorlagen/pruefung.md`) | Soll-Ist-Tabelle aller Quell-Bauteile, Kollisionen, Listen | 8 USD | offen |
 | F1 | `unify-fix-nachbesserung.md` | Nachbesserung nach dem Prüfbefund (entfällt bei PASS) | – | offen |
@@ -135,6 +135,15 @@ Summe der Obergrenzen: U1 bis U10 = 150 USD, mit Prüfer 158 USD. Das sind Oberg
 4. Anbauringe: Tische und Beete auf Radius und Winkelmitten aus `oasis-draufsicht.json` (Oeffnung 120 Grad um Az -72), Bauteile unveraendert.
 5. Leitungen aus U6/U9 per Schalter `LEITUNGEN_AN = False` in `scripts/gen_dome.py` aus dem Gesamtbau (Code bleibt).
 6. Gesamtbau `scripts/build.sh 5 <runde>`, Viewer-Export, Detail-Export, Gate, Draufsicht `renders/lage-l2-draufsicht.png`, Bedenken messen (Tuer-Achse, Gaenge, Kopffreiheit, Ueberlappung), Stand, Push.
+
+### L2 Stand (11.11.2026, 16:45, Werkstatt/Montage-Sitzung)
+**Ergebnis: Gate erfuellt.** `python -I -X utf8 scripts/check_lage_quelle.py` -> Exit 0 am Modellstand 2026-11-11 16:09:38 (4817 Instanzen): 0 von 31 Teilen mit Verstoss, alle Mittelpunkte 0 mm daneben, Masse Fischtank Ø 4500 (0,0 %), Anzucht Ø 2000 (0,0 %), Lebendfutter Ø 1120 (-2,6 %), Vortex Ø 1050, Biofilter Ø 1150, Sumpf 1129 x 2979 (+0,4 %, Drehung 18); Ringe: NFT aussen 4692 (-20), NFT mitte 3713 (+0), NFT innen 2658 (+33), Beet aussen 4538, Beet mitte 3537, Stueckzahl 8/6/10/8/6, 0 Segmente in der Oeffnung.
+1. Gebaut: Bauplaetze aus der Quelle (`scripts/oasis_lage_l2.py`, 26 Teile), Becken und Tanks auf Zeichnungsmass, Sumpf 2 gespiegelt (`sumpftank_spiegel`), Pumpe und Schwimmer an der Quell-Lage, Ringe nach Radius und Bogen der Quelle, Schaltschrank-Gruppe an `control`. Entscheidungen D152 bis D155, D108 bis D110 ueberholt.
+2. Leitungen: `LEITUNGEN_AN = False` in `scripts/gen_dome.py` (D155); Ringleitung, Trassen, Graeben und Ring-Durchfuehrungen sind nicht im Modell, Code bleibt.
+3. Bau: `scripts/build.sh 5 30` Exit 0 (3 min 27 s), `viewer/export_model.py` (11 min), `viewer/export_detail.py` fuer 19 Bauteile (bricht bei `notluftpumpe` ab: Teiledatei nennt Schlauch und Stein, die D148 entfernt hat; fuer das Gate ohne Belang). Bilder: `renders/lage-quelle-vs-modell.png` (Ueberlagerung), `renders/lage-l2-draufsicht.png` (echte Draufsicht des Modells, Schnitt z 2300), `renders/oasis/round-30.png`; alle angesehen.
+4. Konflikte der Quelle gemessen und als Bedenken B23 bis B28 in `n-unify-bedenken.md` (nicht verschoben, D117): Filterpumpen neben dem Tank; kein Gang zwischen Mittel- und Aussenring (29 bis 115 mm), Aussenbeete ueberlappen 394 mm; Tuer-Gang durch Anzucht und Lebendfutter, Lebendfutter in der Tuerluecke (Knie: nur 1 Bauteil von der Tuer erreichbar, 40 nicht; Kopf: 9 rote Engstellen, `docs/walkway-map.md`); Technik ragt bis 169 mm ueber die Wand; Sumpf 1 und Fischtank 192 mm unter Flur; Puffer klein im Fischtank. Messbefehle: `python -I -X utf8 scripts/check_lage_konflikte.py`, `python -X utf8 scripts/check_walkways_voll.py`.
+5. Nicht erfuellt / Folgen: `check_pool_soll` 64/69 (5 FAIL pruefen die alten Masse 3890/4190/2120, ersetzt durch D153); Teileliste, Volumen, Biomasse und Schwebebett nicht nachgezogen (U8-Nachzug); `check_tank`, `check_podest_*` nicht gelaufen.
+**Naechster Schritt:** Ben sieht `renders/lage-quelle-vs-modell.png` und `renders/lage-l2-draufsicht.png` mit B23 bis B28 (Zwischencheck); erst danach Leitungen neu.
 
 ### Korrektur Ben 2 (11.11.2026, ~16:30, nach Sicht der L2-Draufsicht) — ersetzt das Ziel von L2
 Ben (sinngemäß): „Jetzt kommt man nicht mehr rein, die Filter stecken im Gerüst, es gibt keine Laufwege mehr zwischen den NFT.

diff --git a/docs/packages/n-unify-bedenken.md b/docs/packages/n-unify-bedenken.md
@@ -28,3 +28,9 @@ Abweichungs-Empfehlung hat, trägt sie hier als neue Zeile ein (mit Messwert und
 | B20 | Technik reicht ueber die Ringoeffnung hinaus | Oeffnung der Ringe 120 Grad (Az -132 bis -12); Technik Az -176 (Nachspeise) bis -22 (Biofilter 1) | Nachspeise-Ventil (Az -176, r 3068) liegt im Ringbereich Mitte/Innen | an den Fischtank-Rand setzen, Position in der Quelle ist ein Symbol | L1 |
 | B21 | Vortex- und Biofilter-Durchmesser | Zeichnung Vortex r 42 = Ø 1050, Biofilter r 46 = Ø 1150, Schlammreaktor Ø 900 | gebaut: Vortex Ø 673 (-36 %), Biofilter Ø 930 (-19 %); Zeichnung an Filtern schematisch (A16) | Zeichnungsmass uebernehmen (D117) oder Volumen rechnen; mit Leon klaeren | L1 |
 | B22 | Sumpftanks in der Quelle innen, gebaut aussen | Sumpftank 1125 x 2975 in der Kuppel (r 4329), Drehung 18 Grad | gebaut ausserhalb der Kuppel (r 7550); B16 (Schlauchbuendel an der Wand) entfaellt bei Quell-Lage | Soll-Lage bauen, B16 danach neu bewerten | L1, B16 |
+| B23 | Filterpumpen neben dem Fischtank | Quelle zeichnet die Pumpen Fischtank -> Filter bei r 2662 (Az -44 / -100), Tankrand r 2250; gebaut an der Lage der Zeichnung auf dem Fussboden (D154) | eine Tauchpumpe 412 mm ausserhalb der Tankwand saugt nicht; vorher stand sie auf dem Innenboden (D129) | Pumpe in den Tank (r <= 2000) oder Pumpenschacht/Saugpumpe; Symbol der Zeichnung (A16) mit Leon klaeren | L2, D154 |
+| B24 | Kein Gang zwischen Mittel- und Aussenring, Aussenbeete ueberlappen | Quelle: Beete mitte r 3537,5 (6 Stueck), aussen r 4537,5 (8 Stueck) auf 240 Grad (D150) | gemessen (`scripts/check_lage_konflikte.py`): Beet aussen - Beet mitte nur 29 bis 115 mm Abstand; 7 Paare Aussenbeete ueberlappen sich um 394 mm (Laenge 2640 auf 30 Grad Teilung, Ecken); Aussentische ueberlappen sich um 130 mm, Mittel-/Aussentisch um 40 mm; `check_walkways_voll`: alle 14 Beete und 10 Innentische nicht erreichbar | Ringe weiter auseinander (Gang >= 500) oder weniger/kuerzere Aussenbeete; Ringradien der Quelle sind schematisch (A16) - mit Leon klaeren | L2 |
+| B25 | Tuer-Gang durch Anzucht- und Lebendfutterbecken (B19 gemessen) | Quelle: Anzuchtbecken r 3550 und Lebendfutter r 5300 auf der Tuer-Achse Az -72 | Gang 900 mm (D29): Anzuchtbecken und Lebendfutter belegen ihn ganz (1,88 / 0,89 m2), Fischtank 169 mm; Lebendfutter steht in der Tuerluecke (Tuer 1000, Becken 1150, 169 mm ueber der Zehneck-Innenkante): von der Tuer aus ist in Kniehoehe NUR das Lebendfutterbecken erreichbar, 40 Bauteile nicht (`docs/walkway-map.md`, Kopf: 9 rote Engstellen) | Lebendfutter und Anzucht seitlich der Tuer-Achse oder Tuer verlegen; mit Leon klaeren | L2, B19 |
+| B26 | Technik an der Kuppelwand | Quelle: Biofilter r 5301 (Ø 1150), Schlammreaktoren r 5433 (Ø 900), Sumpftanks bis Ecke | gemessen ueber die Zehneck-Innenkante (Apothem 5706): Lebendfutter +169 mm, Schlammsammler +148 mm, Biofilter +26 mm, Sumpf-Grube +13 mm (stossen in Fundamentring und Plane); Biofilter und Vortex ueberlappen am Plattformrand 51/79 mm, Biofilter mit Aussentisch 1/8 um 133/175 mm (Hoehe 1404 bis 1533 abs); Kopf 1,7 m: 100 mm Engstellen zwischen Vortex 1, Biofilter 1 und Wand | Technikblock um 200 bis 300 mm nach innen oder Filter kleiner (Zeichnungsmass schematisch, B21) | L2, B21 |
+| B27 | Fischtank Ø 4500 und Sumpftank 1 unter Flur | Quelle: Fischtank r 2250 (D153), Sumpftank 1 bei r 4329 | Grube Sumpf 1 und Fischtank-Wand ueberlappen unter dem Boden 192 mm (Hoehe -202 bis 360 abs); Innentische stehen mit dem Fuss am Fischtank (Abstand 35 bis 55 mm) | Sumpf um 200 mm nach aussen oder Fischtank Ø 4000 (Quelltext A26); mit Leon klaeren | L2, B18 |
+| B28 | Altbestand Puffer klein im Fischtank | `puffer_klein` (Messzelle, nicht Teil der Quelle, D101) steht an alter Stelle | ueberlappt den Fischtank um 288 mm und das Anzuchtbecken um 92 mm | Ben entscheidet ueber Puffer klein (Offen 8, D101); nicht verschoben (D117) | L2 |
